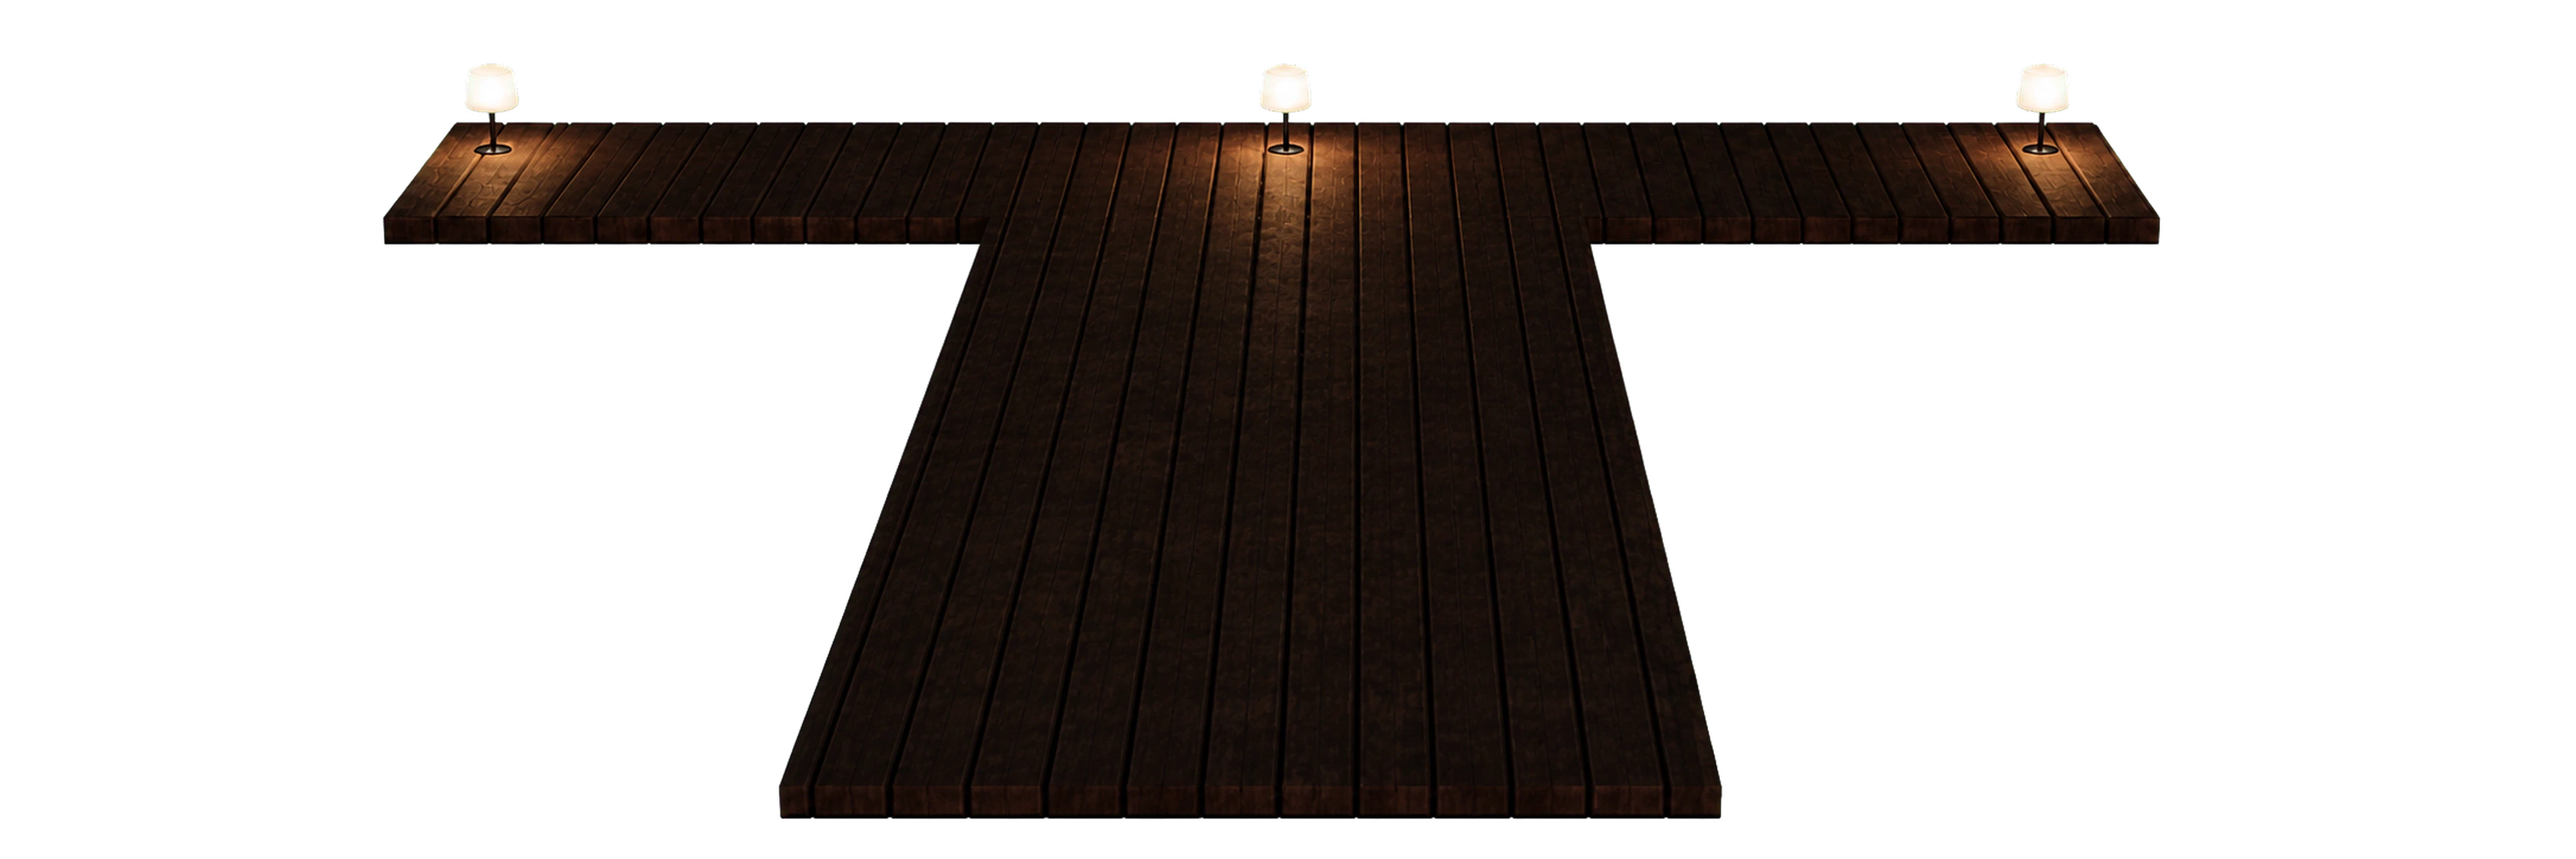
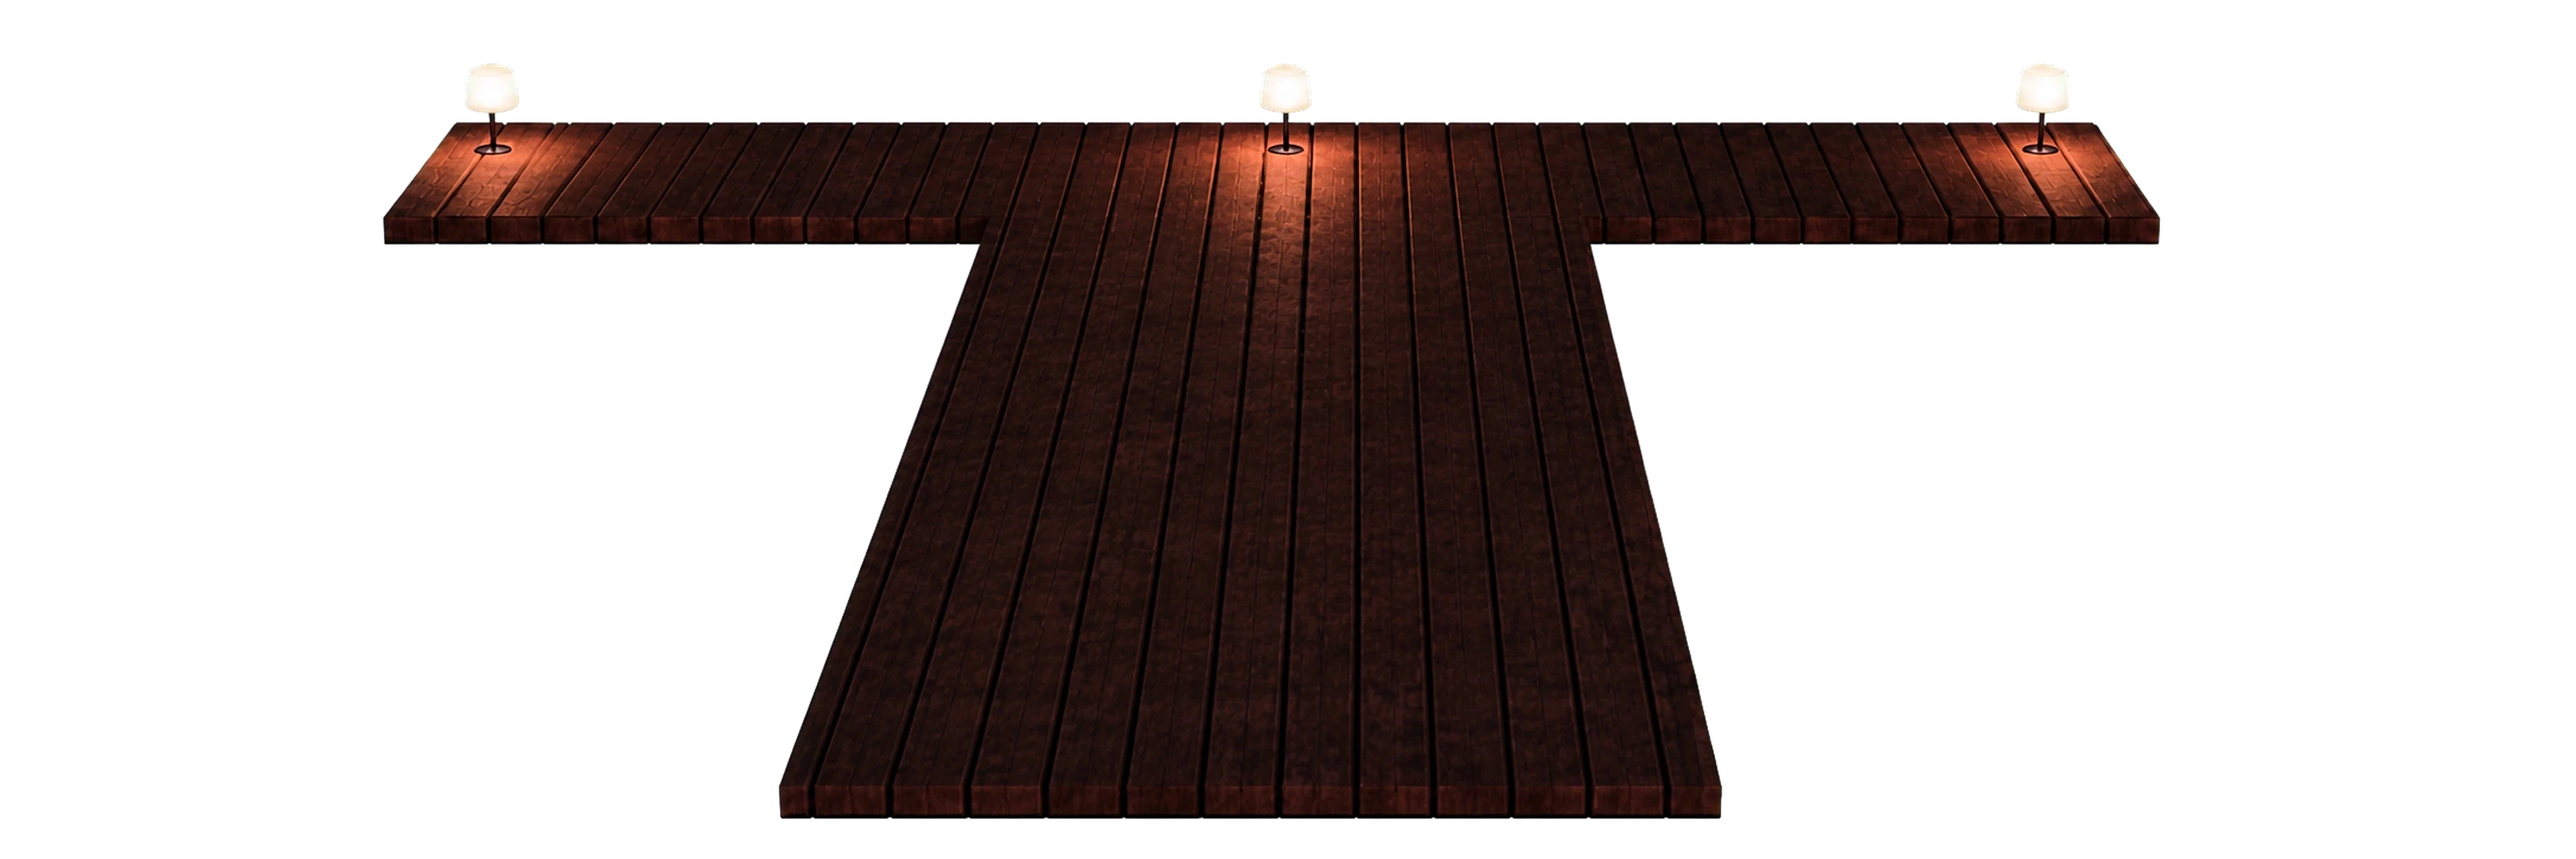
Use Red Balau finish for footer dock

Changed region(s): [[0.4375, 0.125, 0.5625, 0.3438], [0.75, 0.125, 0.8438, 0.25], [0.1562, 0.125, 0.25, 0.25]]

diff --git a/frontend/components/scenes/adaline-scenes.tsx b/frontend/components/scenes/adaline-scenes.tsx
@@ -723,7 +723,7 @@ export function AdalineFooterScene({ contact, contactId, footer }: AdalineFooter
         >
           {shouldReduceMotion ? (
             <img
-              src="/adaline-scenes/footer/footer-dock.webp?v=8"
+              src="/adaline-scenes/footer/footer-dock.webp?v=10"
               alt=""
               aria-hidden
               className="relative aspect-[3] w-full object-fill"

diff --git a/frontend/components/scenes/footer-dock-three.tsx b/frontend/components/scenes/footer-dock-three.tsx
@@ -20,7 +20,7 @@ if (typeof window !== "undefined") {
 }
 
 const DOCK_ASPECT = 3;
-const DOCK_ASSET = "/adaline-scenes/footer/footer-dock.webp?v=8";
+const DOCK_ASSET = "/adaline-scenes/footer/footer-dock.webp?v=10";
 
 const subscribeNoop = () => () => {};
 const getClientSnapshot = () => true;